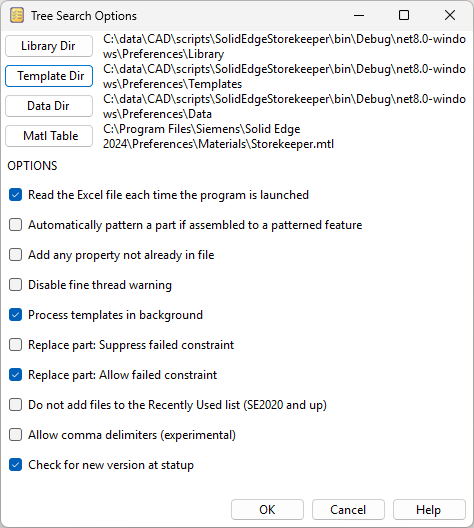
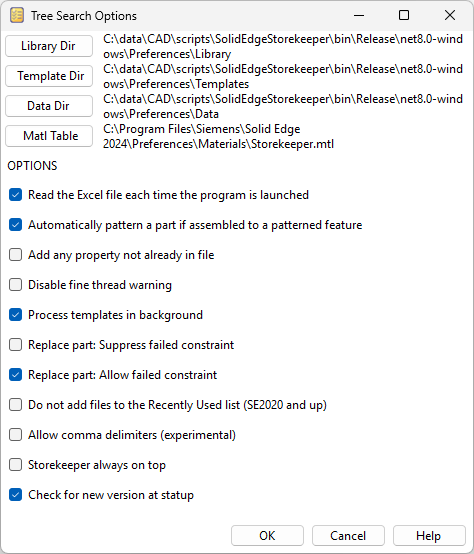
Fastener stack development

diff --git a/Readme.md b/Readme.md
@@ -45,6 +45,7 @@ For items like fasteners, use **Tree Search**.  Navigate to the desired item, ri
 - `Add to assembly`  Adds the part to the assembly and activates the `Place part` command.
 - `Replace selected`  Replaces a selected part in the assembly.
 - `Replace all`  Replaces all occurrences of a selected part in the assembly.
+- `Fastener stack`  Opens the fastener stack dialog.  See the separate section below for details.
 
 <p align="center">
   <img src="media/property_search.png">
@@ -58,7 +59,7 @@ You can set the file names according to your preference.  You can specify the ma
 
 ![Filename Formula](media/filename_formula.png)
 
-Structural shapes are not quite the same as fasteners.  While the cross section is standard, the length and the possibility of additional features is not.  Usually the part doesn't even belong in the library.  So rather than assuming a name and location, the program prompts for both.
+Structural shapes are not quite the same as fasteners.  While the cross section is standard, the length and the possibility of additional features is not.  Usually the part doesn't even belong in the library.  For these, you can change the `Save in` option from `Library` to `Other`.  Rather than assuming a name and location, with this setting the program prompts for both.
 
 Unlike Family of Parts, files are only created as needed.  Also, each part is stand-alone, not tied back to a master file.
 
@@ -160,6 +161,9 @@ The material table is usually your normal SE material table.  However, for a qui
   - `Allow comma delimiters (experimental)`  
 	Allows the use of a comma as the decimal delimiter.  This is somewhat experimental because commas are not allowed `*.xml` headers.  There is a workaround in place, but has not been thouroughly tested.  Disabling this option causes causes commas to be replaced with periods in the `*.xml` file.
 	
+  - `Storekeeper always on top`  
+	Keeps the storekeeper dialog on top of other windows.
+
   - `Check for new version at startup`  
 	If you don't need a reminder about new versions, disable the check here.
 
@@ -190,6 +194,34 @@ These are your normal template files, not the ones used by the program to create
 You may have more work to do if you're not using English in Solid Edge.  In the spreadsheet `Storekeeper.xls`, there are some property names that probably need to be changed.
 
 Open the file (located in the `Preferences\Data` directory) and look for entries like `%{System.Title}` and update as required.
+
+## FASTENER STACK
+
+A fastener stack is a grouping that consists of a fastener and related components, such as washers and nuts.  To create one, on the `Tree Search` dialog, right-click a fastener and select the `Fastener stack` command.  The following form is shown.
+
+<p align="center">
+  <img src="media/fastener_stack.png">
+</p>
+
+To select the stack style, click the `Configuration` button.  There are eight versions that employ nuts, and four each for thru and blind tapped holes.  Note, you only choose the fastener.  The related components are automatically selected based on the fastener diameter and thread, and the chosen configuration.
+
+<p align="center">
+  <img src="media/fastener_stack_configuration.png">
+</p>
+
+Once the desired configuration is selected, choose the units and enter the appropriate parameters.  Click `Add to Assy` to start the process.  
+
+The program first searches the library for a fastener length that meets the criteria.  If none is found, an error is diplayed.
+
+If a fastener is found, it then opens separate temporary subassemblies for the top and bottom parts of the stack, and populates them with the components you chose.
+
+Next, it adds each updated subassembly, in turn, to the main assembly.  The subassembly is dispersed into the main assembly and the `Place part` command is activated.
+
+The program waits for the `Place part` command to finish before proceeding to the next step.  Confusingly, the command does not automatically finish when the parts have been fully constrained.  You have to either right-click the mouse or press the `Escape` key.  If you notice nothing happening for a while, the program could be waiting for your input.
+
+After the components are placed, they are converted to an `Assembly group`.  Finally, the group is patterned if applicable, assuming that option is enabled.
+
+
 
 ## PRE-POPULATING THE LIBRARY
 

diff --git a/release_notes.md b/release_notes.md
@@ -12,6 +12,28 @@ Please note, the program has been tested on thousands of our files, but none of 
 
 Feel free to report bugs and/or ideas for improvement on the [<ins>**Solid Edge Forum**</ins>](https://community.sw.siemens.com/s/topic/0TO4O000000MihiWAC/solid-edge) or [<ins>**GitHub**</ins>](https://github.com/rmcanany/SolidEdgeStorekeeper/issues).
 
+## V2025.4
+
+### Fastener Stacks
+
+Added the ability to create fastener stacks -- a grouping that consists of a fastener and related components, such as washers and nuts.  
+
+<p align="center">
+  <img src="media/fastener_stack.png">
+</p>
+
+The stack styles are pre-configured.  There are eight versions that employ nuts, and four each for thru and blind tapped holes.  Note, you only choose the fastener.  The related components are automatically selected based on the fastener diameter and thread, and the chosen configuration.
+
+<p align="center">
+  <img src="media/fastener_stack_configuration.png">
+</p>
+
+The program automatically finds the correct length fastener, creates temporary subassemblies of the top and bottom components, and adds and disperses them in turn to the main assembly.  Once you position the parts, they are added to an `Assembly Group` and patterned if applicable.
+
+Note, because of several assumptions regarding variable and file names, this initial release most likely will not work with user-created data or templates.
+
+
+
 ## V2025.3
 
 ### Replace Part
